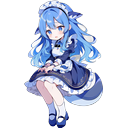
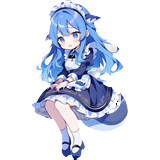
v0.10.8：抠图空洞修复+清晰度升级——①空洞三根源：rembg 将浅白前景（裙摆白占主体74%）判背景 + gap_fix 误清裙摆白膜 + LANCZOS 振铃孔；重写抠图=连通背景白清除+rembg扩孔(cutout)+成品级口袋洞填充(patch_holes)+1px腐蚀，gap_fix 废弃禁用；②尺寸 96/128/160→128/160/192（清晰度），_STAGE_SIZE/设计思路/测试同步；空洞扫描 30/30 归零；回归 v10 11/11+v03 62/62+v02 13/13

Changed region(s): [[0.1875, 0.0, 0.8125, 1.0]]

diff --git a/pet/asset_provider.py b/pet/asset_provider.py
@@ -22,11 +22,11 @@ if TYPE_CHECKING:
 
 
 # 默认显示尺寸（逻辑像素，HiDPI 由 Qt 处理），bottom_center 为锚点
-# v0.10.5 用户反馈"图片过小嘴看不到/颜色分界模糊"→ 64/96/128 升为 96/128/160
+# v0.10.5 用户反馈"图片过小"→ 96/128/160；v0.10.8 "清晰度太低" → 128/160/192
 _STAGE_SIZE: dict[Stage, tuple[int, int]] = {
-    Stage.YOUNG: (96, 96),
-    Stage.ADULT: (128, 128),
-    Stage.FINAL: (160, 160),
+    Stage.YOUNG: (128, 128),
+    Stage.ADULT: (160, 160),
+    Stage.FINAL: (192, 192),
 }
 
 # SLEEPY 门限：系统空闲超过此时长（秒）→ mood 显示 SLEEPY（v0.10 决策②：

diff --git a/spikes/test_v10_ai_provider.py b/spikes/test_v10_ai_provider.py
@@ -25,7 +25,7 @@ from pet.window import WindowBase
 ASSETS = os.path.join(
     os.path.dirname(os.path.dirname(os.path.abspath(__file__))), "assets", "ai"
 )
-SIZE = {"young": 96, "adult": 128, "final": 160}
+SIZE = {"young": 128, "adult": 160, "final": 192}
 
 passed = 0
 

diff --git a/设计思路.md b/设计思路.md
@@ -87,7 +87,7 @@ class AssetProvider(Protocol):
 - `get_static`：静态表情/阶段图（AI 立绘主战场）；`get_frames`：动作帧序列（伸懒腰/打滚/咀嚼）。
 - **v0.1 即冻结双方法**，避免 v0.10 切 AI provider 时动画崩。`EmojiProvider` 两方法都实现；`AIArtProvider` 先 `get_static`，`get_frames` 降级返回 emoji 帧。
 - `skin`：可选皮肤 variant，默认 `"default"`。
-- **默认显示尺寸**：`YOUNG` 96×96 / `ADULT` 128×128 / `FINAL` 160×160（HiDPI 自动处理；v0.10.5 由 64/96/128 调大——小尺寸下嘴/表情/色分界不可辨，用户反馈）。所有物理计算以 `bottom_center` 为锚点。
+- **默认显示尺寸**：`YOUNG` 128×128 / `ADULT` 160×160 / `FINAL` 192×192（HiDPI 自动处理；v0.10.5 由 64/96/128 调大、v0.10.8 再升一档——小尺寸下嘴/表情/色分界不可辨且整图发糊，用户反馈）。所有物理计算以 `bottom_center` 为锚点。
 
 #### Renderer —— 渲染层（为 3D 留缝）
 ```python
@@ -365,6 +365,6 @@ class BubbleWidget(QWidget):
 - ✅ LLM = DeepSeek；key 存平台密钥库。
 - ✅ 持久化原子写 + version migrate + .bak + 配置 schema 校验。
 - ✅ 交互入口手势消解(5px+300ms)；气泡三类；单实例锁 + shutdown()。
-- ✅ 显示尺寸 YOUNG96/ADULT128/FINAL160，bottom_center 锚点。
+- ✅ 显示尺寸 YOUNG128/ADULT160/FINAL192，bottom_center 锚点。
 - ✅ 全屏/演示检测；活跃内容检测；权限永久拒绝不反复弹；性格养成占位。
 - ⏳ 版本切分见 `版本规划.md`；每版任务认领见 `工作表.md`；平台/协作见 `平台适配与分工.md`。
